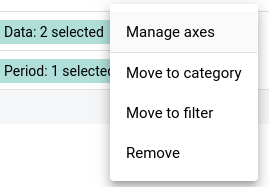
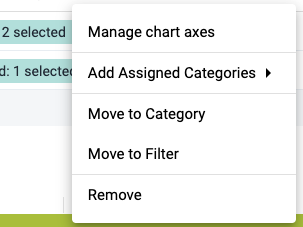
docs: update the multiple axes section

Changed region(s): [[0.0, 0.0267, 1.0, 1.0], [0.9814, 0.0267, 1.0, 0.0535]]

diff --git a/src/commonmark/en/content/user/data-visualizer.md b/src/commonmark/en/content/user/data-visualizer.md
@@ -25,7 +25,7 @@ chips in the layout area.
 
 ## Adding more axes
 
-When combining data with different measurement scales you will get a more meaningful visualization by having more than a single axis. For "column", "bar" and "line" charts you can do so by clicking "Manage axes" in the series dimension's context menu.
+When combining data with different measurement scales you will get a more meaningful visualization by having more than a single axis. For "column", "bar" and "line" charts you can do so by clicking "Manage chart axes" in the Data dimension's context menu. If the option is disabled, make sure that the Data dimension is on the Series axis and that at least two items have been added.
 
 ![](resources/images/data-visualizer/data-visualizer-axis-management-menu-option.png)
 
@@ -37,7 +37,7 @@ In the axis management dialog you can assign data items to the two axes.
 
 When viewing a visualization, you can expand the interpretations on the right
 side by clicking on the Interpretations button in the upper right corner.
-The visualization description will also be shown. The description suppots rich text format.
+The visualization description will also be shown. The description supports rich text format.
 
 To view the visualization according to the date of a particular interpretation,
 click on the interpretation or its "View" button. This will regenerate the visualization with the
